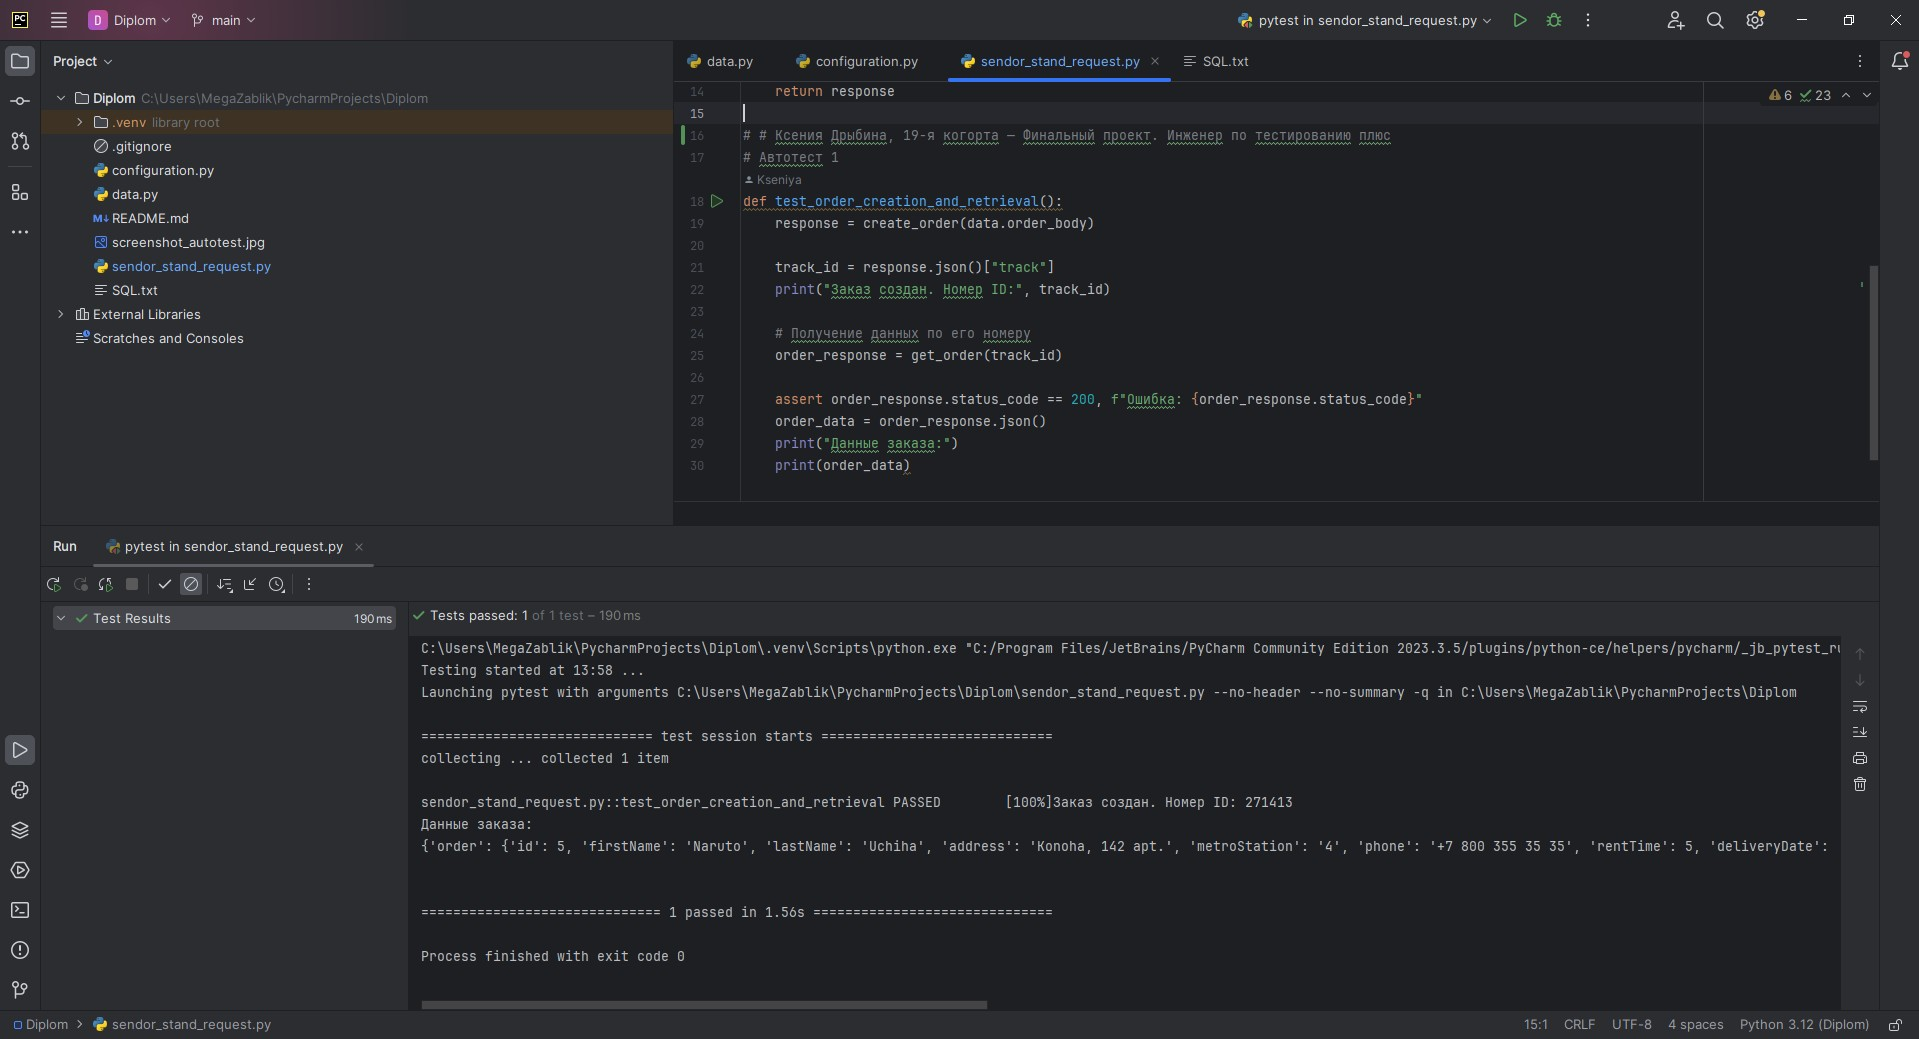
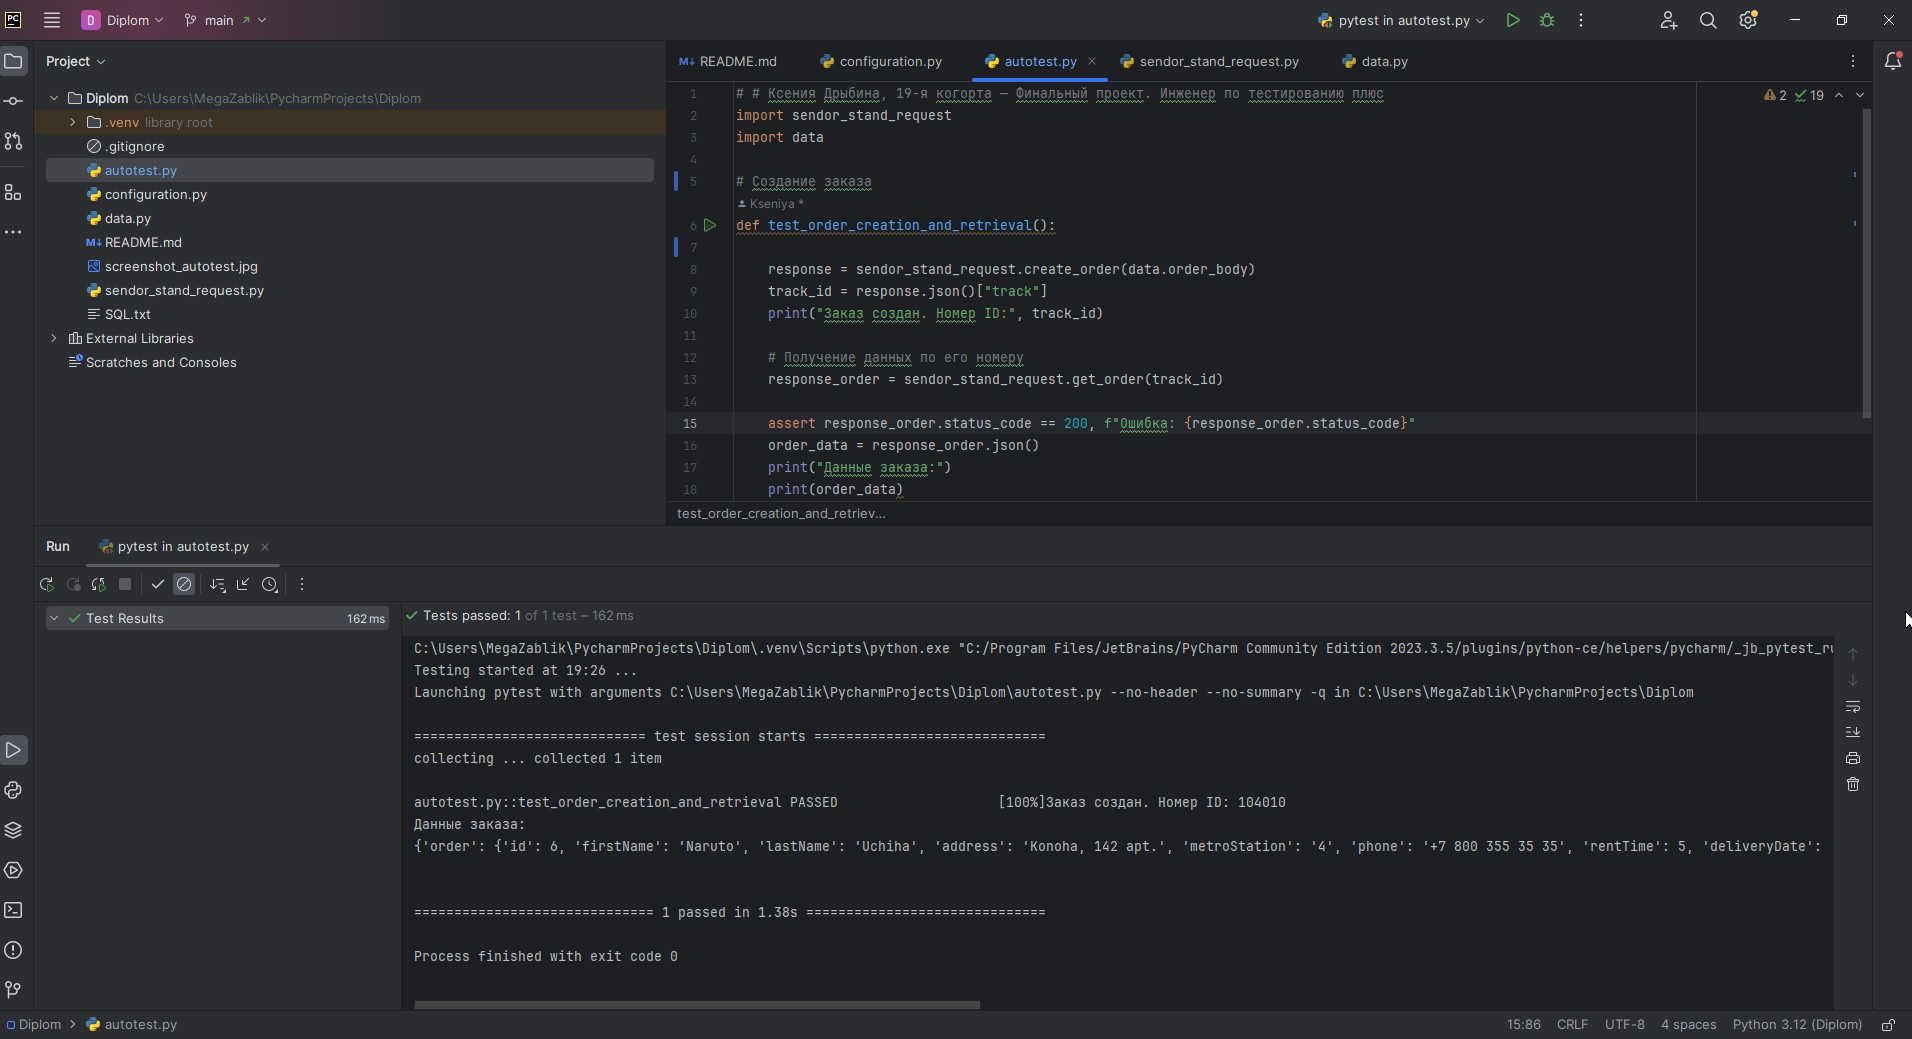
correct_final2

diff --git a/autotest.py b/autotest.py
@@ -2,10 +2,9 @@
 import sendor_stand_request
 import data
 
-# Автотест 1
-
+# Создание заказа
 def test_order_creation_and_retrieval():
-    #Создание заказа
+
     response = sendor_stand_request.create_order(data.order_body)
     track_id = response.json()["track"]
     print("Заказ создан. Номер ID:", track_id)
